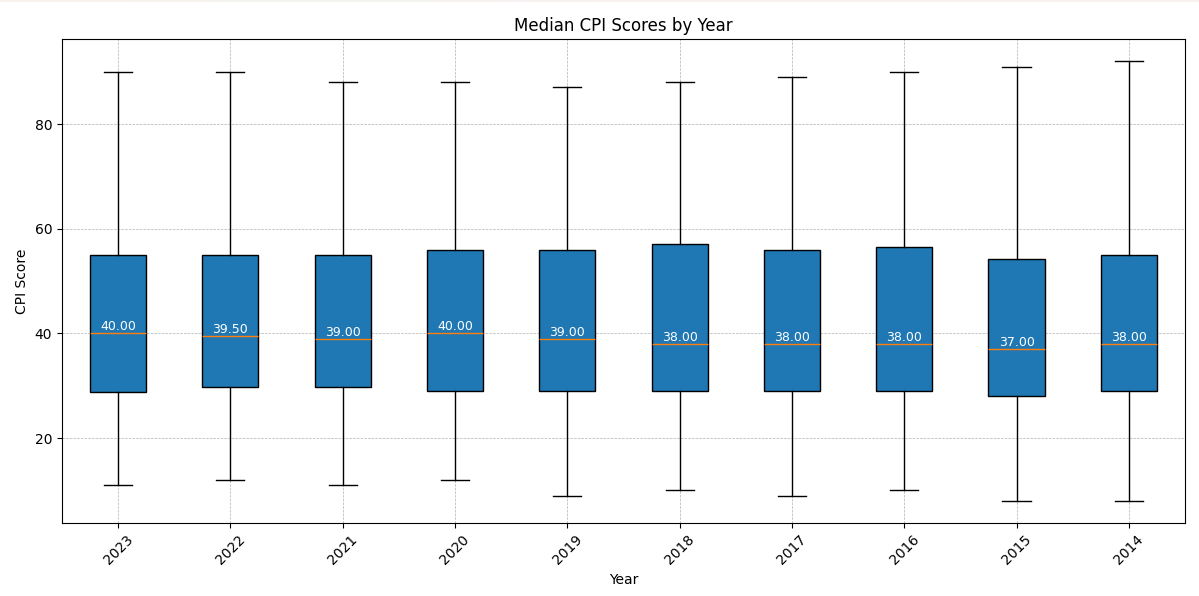
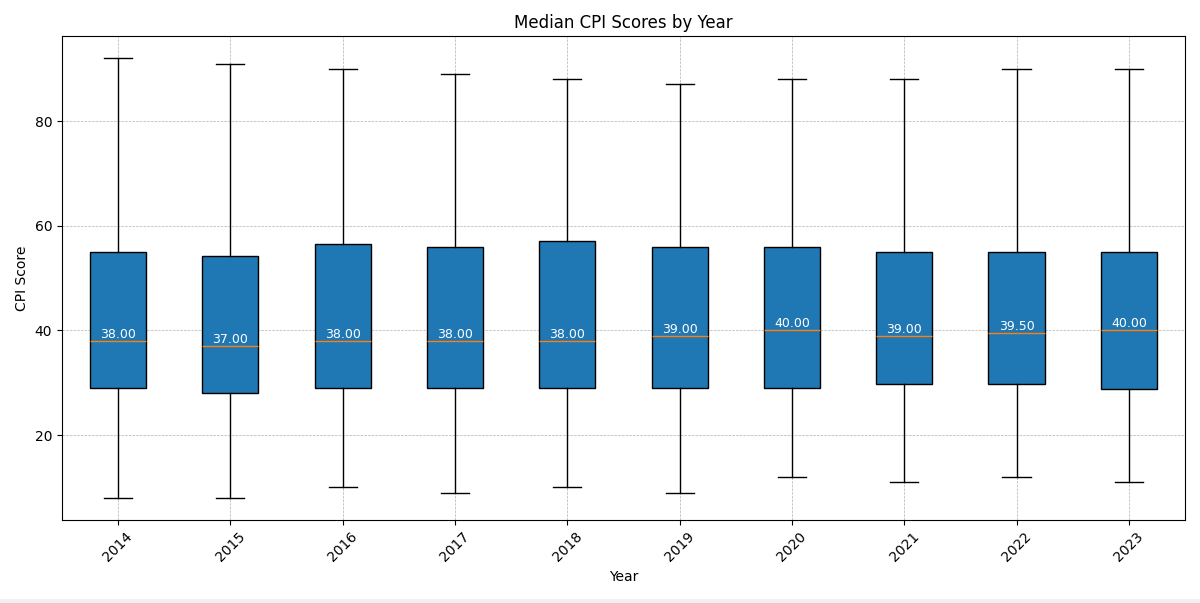
update via local - Dom

diff --git a/medianCPIdec.py b/medianCPIdec.py
@@ -7,10 +7,11 @@ file_path = 'CPI2021GlobalResults.csv'
 cpi_data = pd.read_csv(file_path, skiprows=2)
 
 # Extract the columns that contain the yearly CPI scores
-cpi_score_columns = [col for col in cpi_data.columns if 'CPI score' in col]
+cpi_score_columns = sorted([col for col in cpi_data.columns if 'CPI score' in col], key=lambda x: int(x.split()[-1]))
 
 # Calculate the median CPI score for each year
 median_cpi_scores = cpi_data[cpi_score_columns].median()
+
 
 boxplot_data = [cpi_data[col].dropna() for col in cpi_score_columns]
 

diff --git a/avgCPIdec.py b/avgCPIdec.py
@@ -10,6 +10,8 @@ cpi_score_columns = [col for col in cpi_data.columns if 'CPI score' in col]
 
 # Calculate the average CPI score for each year
 average_cpi_scores = cpi_data[cpi_score_columns].mean()
+average_cpi_scores.sort_index(ascending=True, inplace=True)
+
 
 # Create a line chart to display the average CPI scores
 plt.figure(figsize=(10, 5))
